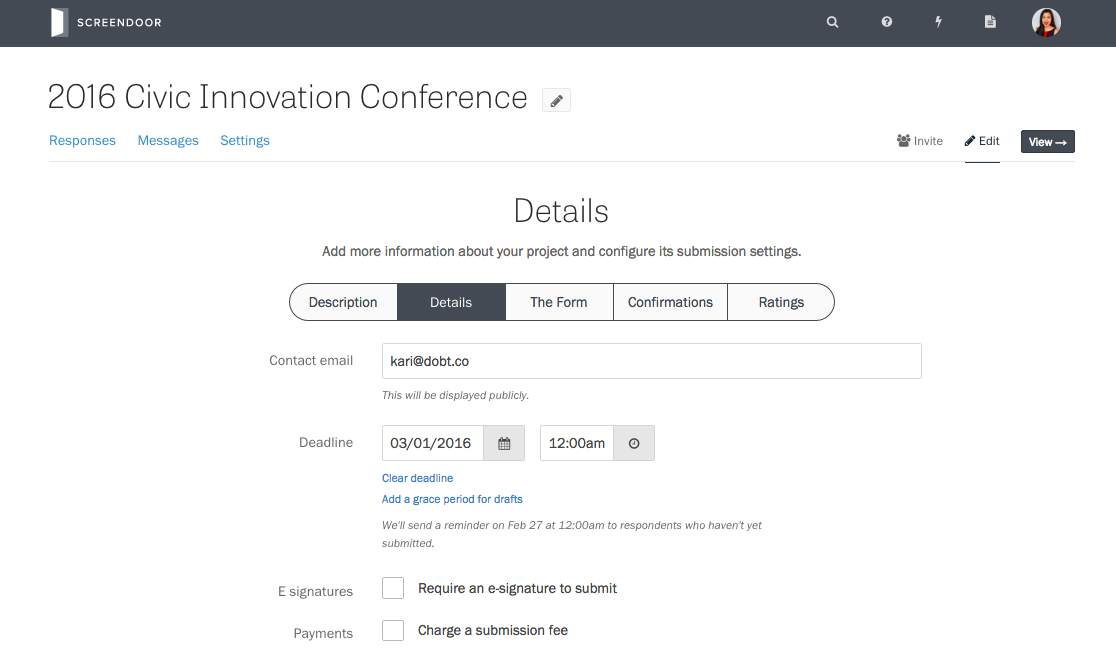
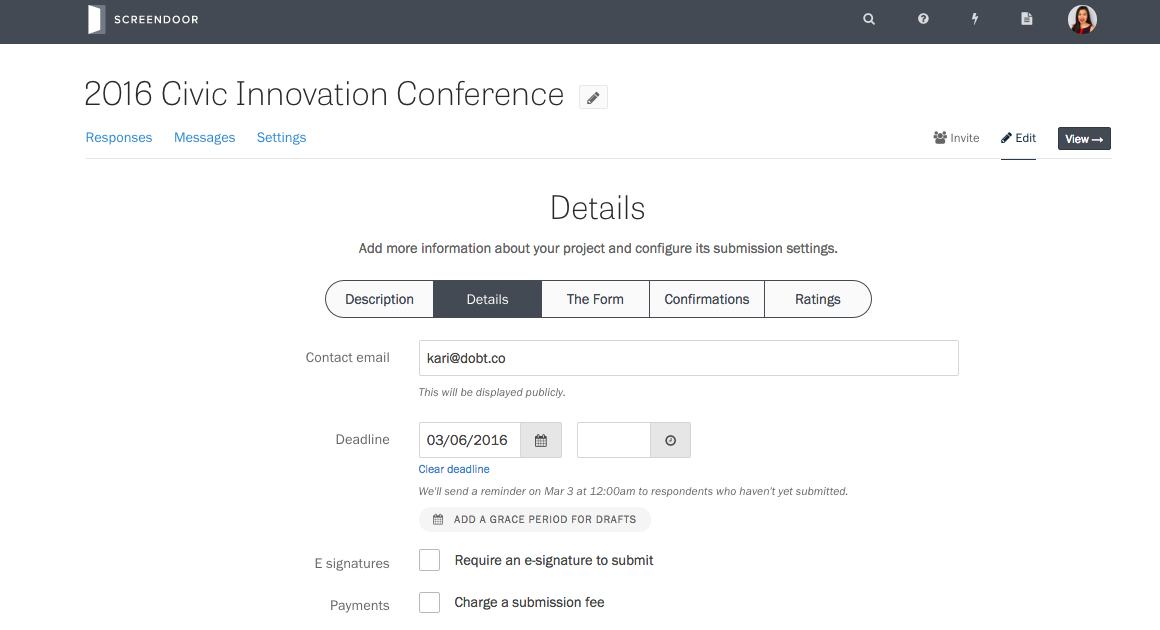
Update copy and screenshots for deadline + grace period

diff --git a/contents/articles/screendoor/projects/deadline.md b/contents/articles/screendoor/projects/deadline.md
@@ -19,7 +19,7 @@ You can also [extend the deadline for a specific response](../responses/providin
 
 ### Setting a grace period
 
-If you want to give some extra time for people who started a response before the deadline to finish it after it has passed, you can add a grace period. Click the &ldquo;Add grace period for drafts&rdquo; link below &ldquo;Clear deadline,&rdquo; and select a date and time.
+If you want to give some extra time for people who started a response before the deadline to finish it after it has passed, you can add a grace period. Press the &ldquo;Add grace period for drafts&rdquo; button below &ldquo;Clear deadline,&rdquo; and select a date and time.
 
 ![Adding a grace period.](../images/deadline_2.png)
 
